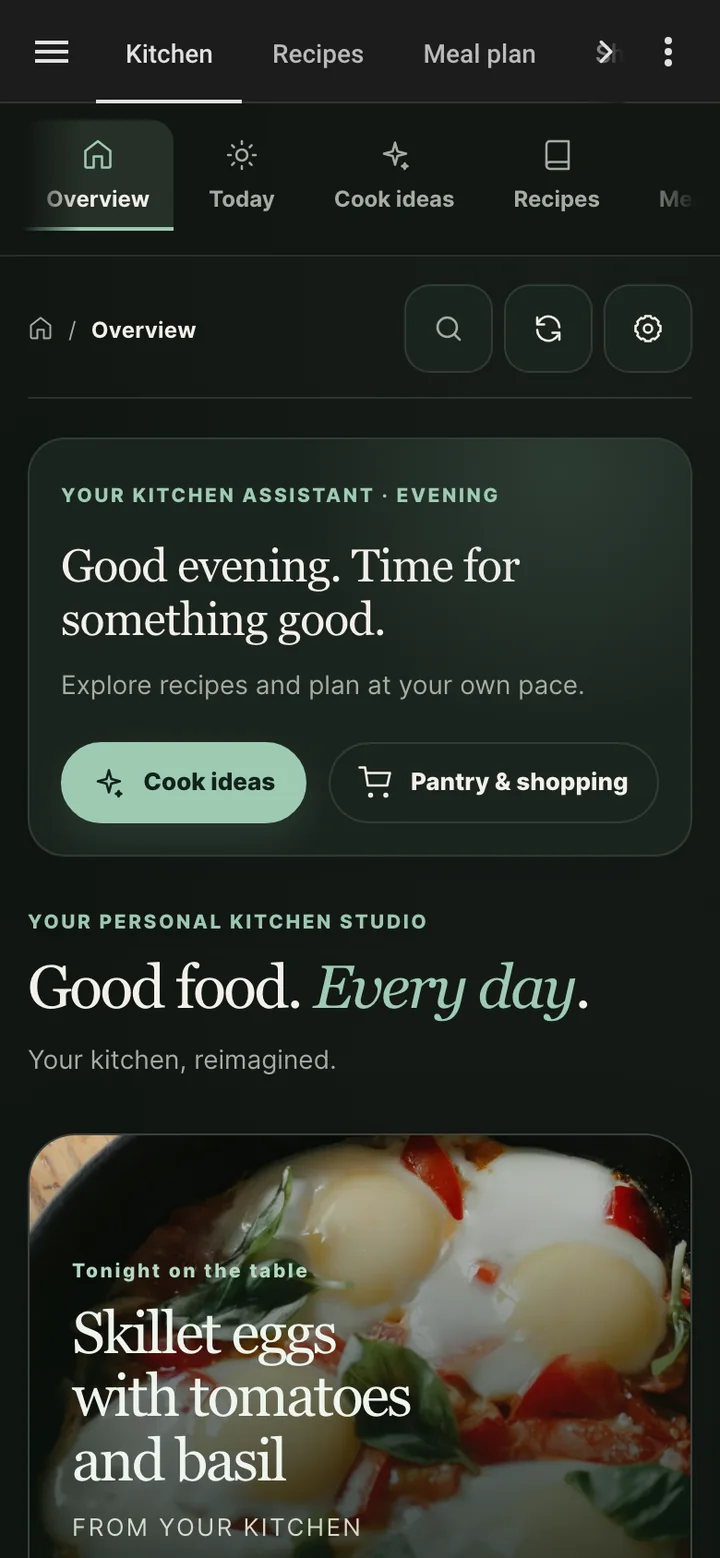
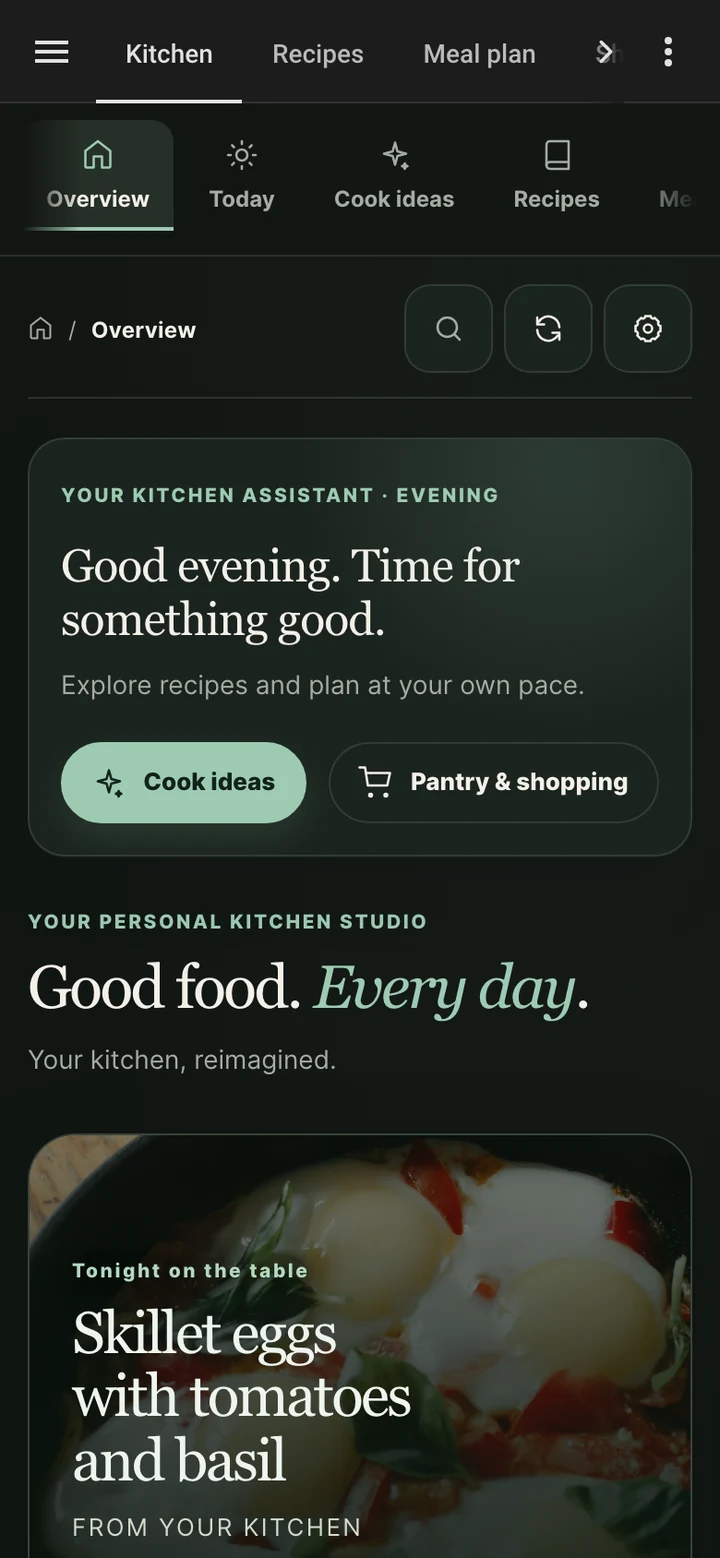
Recapture the Home Assistant hero shots with a sharp photo, darken the phone hero scrim and shade its eyebrow, drop the crispbread the skillet eggs photo never shows

Changed region(s): [[0.0611, 0.7086, 0.9778, 1.0], [0.0306, 0.7086, 0.1833, 0.801]]

diff --git a/dist/mealie-atelier-cards.js b/dist/mealie-atelier-cards.js
@@ -1953,6 +1953,9 @@ ha-card {
   max-width: 535px;
   text-wrap: balance;
 }
+.atelier .hero .eyebrow {
+  text-shadow: 0 1px 10px rgba(8, 16, 11, 0.85);
+}
 .atelier .hero p {
   font-size: 12px;
   color: #d4dacb;
@@ -5635,8 +5638,8 @@ ha-card {
     background: linear-gradient(
       0deg,
       rgba(10, 20, 14, 0.95) 0%,
-      rgba(10, 20, 14, 0.53) 60%,
-      rgba(10, 20, 14, 0.11) 100%
+      rgba(10, 20, 14, 0.74) 60%,
+      rgba(10, 20, 14, 0.5) 100%
     );
   }
   .atelier .hero .hero-food {

diff --git a/web/public/mealie-atelier-cards.js b/web/public/mealie-atelier-cards.js
@@ -1953,6 +1953,9 @@ ha-card {
   max-width: 535px;
   text-wrap: balance;
 }
+.atelier .hero .eyebrow {
+  text-shadow: 0 1px 10px rgba(8, 16, 11, 0.85);
+}
 .atelier .hero p {
   font-size: 12px;
   color: #d4dacb;
@@ -5635,8 +5638,8 @@ ha-card {
     background: linear-gradient(
       0deg,
       rgba(10, 20, 14, 0.95) 0%,
-      rgba(10, 20, 14, 0.53) 60%,
-      rgba(10, 20, 14, 0.11) 100%
+      rgba(10, 20, 14, 0.74) 60%,
+      rgba(10, 20, 14, 0.5) 100%
     );
   }
   .atelier .hero .hero-food {

diff --git a/src/design-system/adaptive.css b/src/design-system/adaptive.css
@@ -259,8 +259,8 @@
     background: linear-gradient(
       0deg,
       rgba(10, 20, 14, 0.95) 0%,
-      rgba(10, 20, 14, 0.53) 60%,
-      rgba(10, 20, 14, 0.11) 100%
+      rgba(10, 20, 14, 0.74) 60%,
+      rgba(10, 20, 14, 0.5) 100%
     );
   }
   .atelier .hero .hero-food {

diff --git a/src/design-system/editorial.css b/src/design-system/editorial.css
@@ -162,6 +162,9 @@
   max-width: 535px;
   text-wrap: balance;
 }
+.atelier .hero .eyebrow {
+  text-shadow: 0 1px 10px rgba(8, 16, 11, 0.85);
+}
 .atelier .hero p {
   font-size: 12px;
   color: #d4dacb;

diff --git a/CHANGELOG.md b/CHANGELOG.md
@@ -21,7 +21,7 @@ All notable changes to Mealie Atelier Cards, the standalone Web app and the demo
 - Demo site: the live card has its natural height instead of a scroll window inside the page, and it opens on "Today" so it does not repeat the page headline.
 - Demo site: each "week in your kitchen" scene shows one large phone (or the tablet for cooking mode) with real content, such as Cook ideas with a suggestion, the shopping assistant and the helper view, instead of small desktop and phone pairs. The device row of the devices section is wider.
 - Demo site: dish names on the food photos sit on a stronger scrim, and the fifth fact closes the facts strip as a full-width row on narrow screens.
-- Demo photos: the skillet eggs and the pizza are cropped tight on the dish (no drink, almost no crispbread, no empty table), and all product screenshots were captured again with them.
+- Demo photos: the skillet eggs and the pizza are cropped tight on the dish (no drink, no empty table), the skillet eggs recipe no longer lists crispbread, and all product screenshots were captured again with them.
 - Cooking mode on laptop-height screens (landscape, 701 to 1000 px tall): Back and Next sit right under the step and stay pinned to the bottom of the step column, the photo column keeps its full height with the recipe title readable, and only the step column scrolls. At 1440 × 900 the buttons were cut off at the dialog edge.
 - German copy now matches the Bridge wording: "Backup" instead of "Sicherung", "API-Token", "Home-Assistant-Nutzer" and "Mealie Atelier Bridge".
 - Opening a dialog in Home Assistant puts keyboard focus inside it again: Home Assistant renders `ha-card` asynchronously, so the one-shot `focus()` hit content without a layout box and silently did nothing. Focus is retried until it holds, so Esc, Ctrl+K typing and Tab (kept inside the open dialog) work right away, and focus returns to the opener on close.
